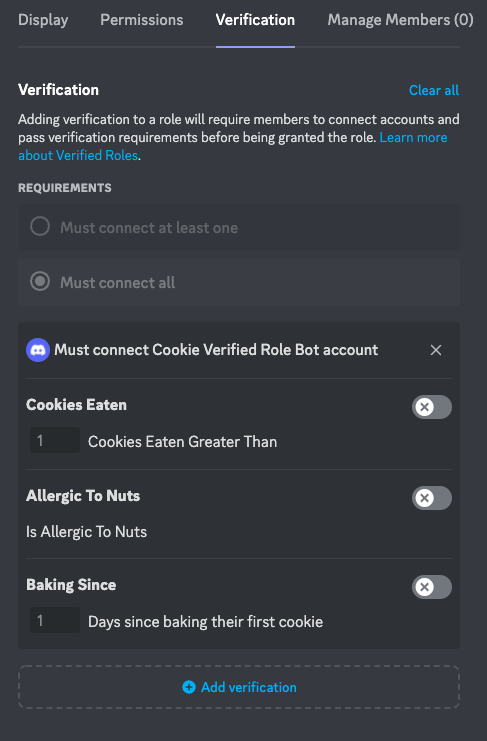
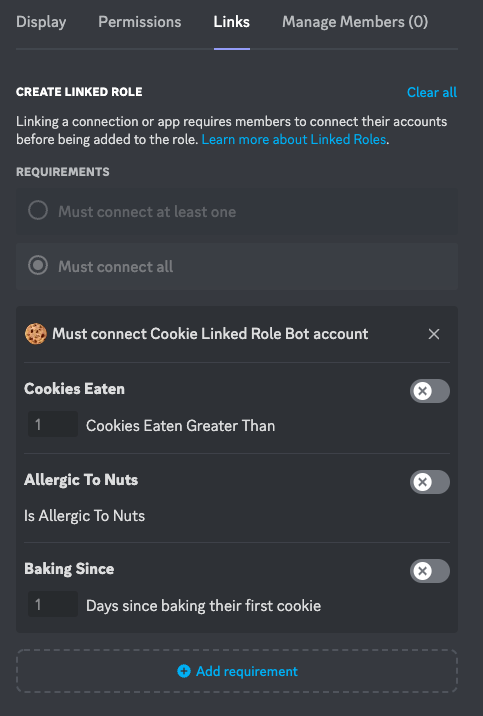
Import of discord/linked-role-bot

diff --git a/src/server.js b/src/server.js
@@ -25,7 +25,7 @@ import * as storage from './storage.js';
  * To start the flow, generate the OAuth2 consent dialog url for Discord, 
  * and redirect the user there.
  */
-app.get('/verified-role', async (req, res) => {
+app.get('/linked-role', async (req, res) => {
   const { url, state } = discord.getOAuthUrl();
 
   // Store the signed state param in the user's cookies so we can verify
@@ -121,7 +121,7 @@ async function updateMetadata(userId) {
     // If fetching the profile data for the external service fails for any reason,
     // ensure metadata on the Discord side is nulled out. This prevents cases
     // where the user revokes an external app permissions, and is left with
-    // stale verified role data.
+    // stale linked role data.
   }
 
   // Push the data to Discord.

diff --git a/src/discord.js b/src/discord.js
@@ -120,7 +120,7 @@ export async function pushMetadata(userId, tokens, metadata) {
   const url = `https://discord.com/api/v10/users/@me/applications/${config.DISCORD_CLIENT_ID}/role-connection`;
   const accessToken = await getAccessToken(userId, tokens);
   const body = {
-    platform_name: 'Example Verified Role Discord Bot',
+    platform_name: 'Example Linked Role Discord Bot',
     metadata,
   };
   const response = await fetch(url, {

diff --git a/README.md b/README.md
@@ -1,15 +1,14 @@
-
-# Discord Verified Role Bot Example
-This repository contains the documentation and example for a verified role bot.
+# Discord Linked Role Bot Example
+This repository contains the documentation and example for a linked role bot.
 
 ## Creating an App
-The first thing we’ll need to do is create an app. Navigate to the developer dashboard, then click New Application in the upper right corner.
+The first thing we’ll need to do is create an app. Navigate to the [developer dashboard](https://discord.com/developers/applications), then click New Application in the upper right corner.
 
 ![Create Application](assets/create-app.png "Create Application")
 
 Enter a name for your app, then click Create.
 
-Once you create an app, you'll land on the General Overview page of the app's settings. Here you can view and configure basic information about the app, like its description and icon. You’ll also see an Application ID and Verified Roles Verification URL, which we’ll use a bit later in the guide.
+Once you create an app, you'll land on the General Overview page of the app's settings. Here you can view and configure basic information about the app, like its description and icon. You’ll also see an Application ID and Linked Roles Verification URL, which we’ll use a bit later in the guide.
 
 ### Configuring a bot
 Next we'll add a bot user to your app, which allows it to appear in Discord similar to other members. On the left hand sidebar click Bot, then the Add Bot button.
@@ -41,7 +40,7 @@ After installing your app, you can head over to your server and see that it has 
 With your app configured and installed, let’s start developing it.
 
 ## Running your app
-All of the code used in the example app can be found in the [Github repository](https://github.com/JustinBeckwith/verified-role-bot).
+All of the code used in the example app can be found in the [Github repository](https://github.com/JustinBeckwith/linked-role-bot).
 
 
 ### Remix the project
@@ -49,7 +48,7 @@ This guide uses Glitch, which allows you to quickly clone and develop an app fro
 
 > While Glitch is great for development and testing, [it has technical limitations](https://help.glitch.com/kb/article/17-technical-restrictions/) so other hosting providers should be considered for production apps.
 
-To start, [remix (or clone) the Glitch project 🎏](https://glitch.com/edit/#!/remix/verified-role-discord-bot)
+To start, [remix (or clone) the Glitch project 🎏](https://glitch.com/edit/#!/remix/linked-role-discord-bot)
 
 When you remix the project, you'll see a new Glitch project with a unique name similar to this:
 
@@ -89,7 +88,7 @@ Now, we need to set the Redirect Url that will be used for our OAuth2 flow.  Go 
 
 Go back to the OAuth2 -> General tab in the Discord developer portal, and add a new redirect for your app using the Glitch url and the `/discord-oauth-callback` route.  Copy this full url, and paste it as `DISCORD_REDIRECT_URI` into your `.env` as well.  
 
-Go to the General Information tab in the developer portal, and scroll down to the `Verified Roles Verification Url` field. Paste the base url to your glitch service, and save:
+Go to the General Information tab in the developer portal, and scroll down to the `Linked Roles Verification Url` field. Paste the base url to your glitch service, add the `/linked-role` route, and save:
 
 ![Verify endpoint](assets/verify-endpoint.png "Verify endpoint")
 
@@ -111,11 +110,7 @@ COOKIE_SECRET: <random generated UUID>
 ```
 
 ### Registering your metadata schema
-As a one time step, you must tell Discord which metadata fields you are going to use for your verified role. Eventually, users will be presented a dialog like this:
-
-![Verification Setup](assets/verification-setup.png "Verification Setup")
-
-The code for configuring this metadata is in [src/register.js](), and it is meant to be run as a command line application.  Go back to glitch, click the terminal tab, and run the following command:
+As a one time step, you must tell Discord which metadata fields you are going to use for your linked role. The code for configuring this metadata is in [src/register.js](), and it is meant to be run as a command line application.  Go back to glitch, click the terminal tab, and run the following command:
 
 ```
 $ node src/register.js
@@ -127,30 +122,30 @@ $ node src/register.js
 ## Try it out
 Now that you've built your bot, let's give it a try both from the server owner and the user's perspective.
 
-### Creating the verified role
-To try out our bot, we're going to create a verified role in a server where you have admin permissions.  Open up the server settings, select roles, and click on `Create Role`.  Give the role a name, save it, then click on `Verification`.  Click the `Add verification` button, and you should see your bot in the list of available Apps.  Click on it, and you will see a setup screen where you can configure specific criteria for your role.
+### Creating the linked role
+To try out our bot, we're going to create a linked role in a server where you have admin permissions.  Open up the server settings, select roles, and click on `Create Role`.  Give the role a name, save it, then click on `Links`.  Click the `Add requirement` button, and you should see your bot in the list of available Apps.  Click on it, and you will see a setup screen where you can configure specific criteria for your role.
 
 ![Verification Setup](assets/verification-setup.png "Verification Setup")
 
 ### Acquiring the role
-To acquire your newly created role, click the server name in the upper left corner of the screen, and select `Verified Roles`.  Click on your role, and it will present the opportunity to connect your account.
+To acquire your newly created role, click the server name in the upper left corner of the screen, and select `Linked Roles`.  Click on your role, and it will present the opportunity to connect your account.
 
 ![Connect accounts](assets/connect-account.png "Connect accounts")
 
-Click on the verified role criteria. This should lead to the Discord OAuth2 consent screen.  Click `Authorize`, and then return to Discord.  
+Click on the linked role criteria. This should lead to the Discord OAuth2 consent screen.  Click `Authorize`, and then return to Discord.  
 
 ![Consent Dialog](assets/consent-dialog.png "Consent Dialog")
 
-After returning to Discord, you should see a confirmed verified role.
+After returning to Discord, you should see a confirmed linked role.
 
 ![Connected](assets/connected.png "Connected")
 
-Finally, create a new private channel, and add the new verified role.
+Finally, create a new private channel, and add the new linked role.
 
-# Tips & Tricks
+## Tips & Tricks
 
-## Token storage
+### Token storage
 This bot largely relies on Discord's [OAuth2](https://discord.com/developers/docs/topics/oauth2) implementation to obtain access tokens. This model of user based authentication relies on storing refresh tokens, and using them to acquire access tokens.  The example code in [src/storage.js](src/storage.js) uses in-memory storage to manage these tokens, but for any production deployment a database with persistent storage should be used. 
 
-## Advanced examples
+### Advanced examples
 For a more complex example, see https://github.com/JustinBeckwith/fitbit-discord-bot/.
